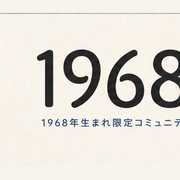
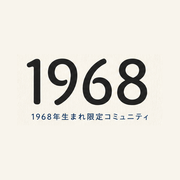
feat(brand): 新ロゴで全アイコン書き換え + ヒーロー画像 + 投稿バッジ展開
ユーザー支給の新しい logo.png（資料/logo.png）と更新された創設メンバー
バッジ SVG を一次ソースに、サイト全体のロゴ・アイコン・バッジを再生成。

ロゴ・アイコン
- public/logo/wordmark.png（392x192）と wordmark-compact.png（273x96）を新規生成
- public/logo/icon-{32,96,192,512}.png、favicon.ico、apple-touch-icon.png、icon.png を再生成
- public/badges/founding-member.svg を最新版に差し替え
- app/layout.tsx の SiteHeader をテキスト「1968」から画像ロゴに差し替え
  デスクトップは wordmark（h-12）、モバイルは wordmark-compact（h-9）で出し分け

トップヒーロー
- components/home/image-hero.tsx を新設、empty-threads.png を視覚アンカーに使う 2 カラム
- HomeGuest が PhotoCollageHero（絵文字タイル）から ImageHero に乗り換え

著者バッジの展開
- components/membership-badge.tsx に compact prop を追加、rank pill を非表示にできる
- lib/author-info.ts に isFoundingMember / isCurrentSupporter を追加
- スレッド詳細（ThreadOriginalCard / ReplyBubble）の著者名横に MembershipBadge compact を配置
- /timeline と /board/[slug] の各スレッド行にも同様に展開
- 創設メンバーは金色バッジ画像、応援団は紅色 pill で表示

DB マイグレーション
- 20260501013000、member_display ビューに is_ai_persona を含めるよう修正（regression 修正）

Changed region(s): [[0.1389, 0.25, 1.0, 0.7222], [0.0, 0.0556, 1.0, 0.0833]]

diff --git a/app/board/[slug]/[thread]/page.tsx b/app/board/[slug]/[thread]/page.tsx
@@ -20,6 +20,7 @@ import { MediaPicker } from "@/components/media-picker";
 import { OwnReplyBubble } from "@/components/own-reply-bubble";
 import { AdminModToolbar } from "@/components/admin-mod-toolbar";
 import { UserAvatar } from "@/components/user-avatar";
+import { MembershipBadge } from "@/components/membership-badge";
 import { fetchAuthorInfo } from "@/lib/author-info";
 import { fetchCategoryBySlug } from "@/lib/cached-categories";
 import type { MediaItem } from "@/lib/media";
@@ -136,6 +137,8 @@ export default async function ThreadDetailPage({ params, searchParams }: Props) 
   const author = authorMap.get(thread.user_id);
   const authorName = author?.nickname ?? "（匿名）";
   const authorIsAi = author?.isAi === true;
+  const authorIsFounding = author?.isFoundingMember === true;
+  const authorIsSupporter = author?.isCurrentSupporter === true;
   const authorAvatar = author?.avatarUrl ?? null;
 
   // 現ユーザーの「いいね」一覧、スレッド本文＋閲覧可能な返信分
@@ -192,6 +195,8 @@ export default async function ThreadDetailPage({ params, searchParams }: Props) 
           authorId={thread.user_id}
           authorName={authorName}
           authorIsAi={authorIsAi}
+          authorIsFounding={authorIsFounding}
+          authorIsSupporter={authorIsSupporter}
           authorAvatar={authorAvatar}
           title={thread.title}
           body={thread.body}
@@ -212,6 +217,8 @@ export default async function ThreadDetailPage({ params, searchParams }: Props) 
               const replyAuthor = authorMap.get(r.user_id);
               const name = replyAuthor?.nickname ?? "（匿名）";
               const replyIsAi = replyAuthor?.isAi === true;
+              const replyIsFounding = replyAuthor?.isFoundingMember === true;
+              const replyIsSupporter = replyAuthor?.isCurrentSupporter === true;
               const replyAvatar = replyAuthor?.avatarUrl ?? null;
               const mine = viewerId === r.user_id;
               const parentName = r.parent_reply_id
@@ -252,6 +259,8 @@ export default async function ThreadDetailPage({ params, searchParams }: Props) 
                     name={name}
                     authorId={r.user_id}
                     isAi={replyIsAi}
+                    isFounding={replyIsFounding}
+                    isSupporter={replyIsSupporter}
                     avatarUrl={replyAvatar}
                     mine={mine}
                     parentName={parentName}
@@ -355,6 +364,8 @@ function ThreadOriginalCard(props: {
   authorId: string;
   authorName: string;
   authorIsAi: boolean;
+  authorIsFounding: boolean;
+  authorIsSupporter: boolean;
   authorAvatar: string | null;
   title: string;
   body: string;
@@ -384,6 +395,12 @@ function ThreadOriginalCard(props: {
               {props.authorName}
             </Link>
             {props.authorIsAi && <AiBadge />}
+            <MembershipBadge
+              rank="member"
+              compact
+              isFoundingMember={props.authorIsFounding}
+              isCurrentSupporter={props.authorIsSupporter}
+            />
           </p>
           <p className="text-xs text-foreground/60">
             {new Date(props.createdAt).toLocaleString("ja-JP", {
@@ -447,6 +464,8 @@ function ReplyBubble(props: {
   name: string;
   authorId: string;
   isAi: boolean;
+  isFounding: boolean;
+  isSupporter: boolean;
   avatarUrl: string | null;
   mine: boolean;
   parentName: string | null;
@@ -485,6 +504,12 @@ function ReplyBubble(props: {
           <p className="text-xs text-foreground/70 mb-0.5 px-1 flex items-center gap-1">
             <span>{props.name}</span>
             {props.isAi && <AiBadge />}
+            <MembershipBadge
+              rank="member"
+              compact
+              isFoundingMember={props.isFounding}
+              isCurrentSupporter={props.isSupporter}
+            />
           </p>
         )}
         {props.parentName && (

diff --git a/components/home/image-hero.tsx b/components/home/image-hero.tsx
@@ -1,0 +1,57 @@
+// 1968 トップページの画像ヒーロー。
+// アイボリー水彩タッチのイラスト（ノート＋湯呑み＋小さな花束）を視覚アンカーにして、
+// 「同年代と落ち着いて語らえる場」というブランドの世界観を一目で伝える。
+//
+// レイアウト、
+//   - デスクトップ：画像左、テキスト右の 2 カラム
+//   - モバイル：画像が上、テキストが下のスタック
+
+import Image from "next/image";
+
+export function ImageHero({
+  title,
+  subtitle,
+  cta,
+}: {
+  title: React.ReactNode;
+  subtitle?: React.ReactNode;
+  cta?: React.ReactNode;
+}) {
+  return (
+    <section className="px-4 py-8 sm:py-14 max-w-6xl mx-auto">
+      <div className="grid md:grid-cols-2 gap-6 md:gap-12 items-center">
+        {/* 画像、モバイルでは順序 1（上）、デスクトップでは左 */}
+        <div className="order-1 md:order-1 relative">
+          <Image
+            src="/illustrations/empty-threads.png"
+            alt="開いたノートと湯呑み、ふたりの会話を待つ机"
+            width={800}
+            height={600}
+            priority
+            className="w-full h-auto rounded-2xl"
+          />
+        </div>
+
+        {/* テキスト + CTA、モバイルでは順序 2（下）、デスクトップでは右 */}
+        <div className="order-2 md:order-2">
+          <p className="text-xs tracking-widest text-accent font-bold mb-3">
+            1968 — SHOWA 43 ONLY
+          </p>
+          <h1 className="text-3xl sm:text-4xl md:text-5xl font-bold leading-tight">
+            {title}
+          </h1>
+          {subtitle && (
+            <div className="mt-4 text-base sm:text-lg text-foreground/80 leading-8">
+              {subtitle}
+            </div>
+          )}
+          {cta && (
+            <div className="mt-6 sm:mt-8 flex flex-col sm:flex-row gap-3 items-stretch sm:items-center">
+              {cta}
+            </div>
+          )}
+        </div>
+      </div>
+    </section>
+  );
+}

diff --git a/app/layout.tsx b/app/layout.tsx
@@ -7,6 +7,7 @@ import Link from "next/link";
 // 東京にすれば 30〜80ms に短縮できる、各ページで 5〜15 クエリ走るので体感が劇的に変わる。
 export const preferredRegion = ["hnd1"];
 import { createSupabaseServerClient } from "@/lib/supabase/server";
+import Image from "next/image";
 import { Suspense } from "react";
 import { Analytics } from "@/components/analytics";
 import { MembershipBadge } from "@/components/membership-badge";
@@ -245,15 +246,26 @@ function SiteHeader({
       <div className="mx-auto max-w-5xl px-4 py-4 flex items-center justify-between gap-3">
         <Link
           href="/"
-          className="flex flex-col leading-tight no-underline shrink-0"
-          aria-label="1968 トップへ"
+          className="flex items-center no-underline shrink-0"
+          aria-label="1968、1968年生まれ限定コミュニティ、トップへ"
         >
-          <span className="text-2xl font-bold tracking-wider text-primary">
-            1968
-          </span>
-          <span className="text-sm text-foreground/70 hidden sm:block">
-            1968年生まれ限定コミュニティ
-          </span>
+          {/* デスクトップではフルロゴ（1968 + サブタイトル）、モバイルではアイコンのみ */}
+          <Image
+            src="/logo/wordmark.png"
+            alt="1968 1968年生まれ限定コミュニティ"
+            width={221}
+            height={96}
+            priority
+            className="hidden sm:block h-12 w-auto"
+          />
+          <Image
+            src="/logo/wordmark-compact.png"
+            alt="1968"
+            width={159}
+            height={48}
+            priority
+            className="block sm:hidden h-9 w-auto"
+          />
         </Link>
         <nav className="flex items-center gap-3">
           {isAdmin && (

diff --git a/lib/author-info.ts b/lib/author-info.ts
@@ -1,12 +1,14 @@
 import type { SupabaseClient } from "@supabase/supabase-js";
 import { publicAvatarUrl } from "@/lib/avatar";
 
-// 投稿表示用の、ニックネーム＋会員ランク＋アバター URL をまとめて取得するヘルパー。
+// 投稿表示用の、ニックネーム＋会員ランク＋アバター URL ＋称号フラグをまとめて取得するヘルパー。
 
 export type AuthorInfo = {
   nickname: string | null;
   rank: "member" | "verified" | null;
   isAi: boolean;
+  isFoundingMember: boolean;
+  isCurrentSupporter: boolean;
   avatarUrl: string | null;
 };
 
@@ -25,7 +27,9 @@ export async function fetchAuthorInfo(
       .in("user_id", uniqueIds),
     supabase
       .from("member_display")
-      .select("user_id, membership_rank, is_ai_persona")
+      .select(
+        "user_id, membership_rank, is_ai_persona, is_founding_member, is_current_supporter",
+      )
       .in("user_id", uniqueIds),
   ]);
 
@@ -33,6 +37,8 @@ export async function fetchAuthorInfo(
     nickname: null,
     rank: null,
     isAi: false,
+    isFoundingMember: false,
+    isCurrentSupporter: false,
     avatarUrl: null,
   });
   for (const id of uniqueIds) {
@@ -48,6 +54,8 @@ export async function fetchAuthorInfo(
     const current = map.get(r.user_id as string) ?? init();
     current.rank = r.membership_rank as "member" | "verified";
     current.isAi = r.is_ai_persona === true;
+    current.isFoundingMember = r.is_founding_member === true;
+    current.isCurrentSupporter = r.is_current_supporter === true;
     map.set(r.user_id as string, current);
   }
 

diff --git a/app/timeline/page.tsx b/app/timeline/page.tsx
@@ -3,6 +3,7 @@ import type { Metadata } from "next";
 import { createSupabaseServerClient } from "@/lib/supabase/server";
 import { fetchAuthorInfo } from "@/lib/author-info";
 import { EmptyState } from "@/components/empty-state";
+import { MembershipBadge } from "@/components/membership-badge";
 import { ThreadThumbnail } from "@/components/thread-thumbnail";
 import type { Tier } from "@/lib/auth/permissions";
 import type { MediaItem } from "@/lib/media";
@@ -141,8 +142,15 @@ export default async function TimelinePage({ searchParams }: Props) {
                     <p className="mt-0.5 text-sm text-foreground/70 line-clamp-1 leading-6">
                       {preview(t.body)}
                     </p>
-                    <div className="mt-1.5 flex items-center gap-2 text-xs text-foreground/60 flex-wrap">
+                    <div className="mt-1.5 flex items-center gap-1.5 text-xs text-foreground/60 flex-wrap">
                       <span className="truncate max-w-[8em]">{nickname}</span>
+                      <MembershipBadge
+                        rank="member"
+                        compact
+                        isAi={author?.isAi}
+                        isFoundingMember={author?.isFoundingMember}
+                        isCurrentSupporter={author?.isCurrentSupporter}
+                      />
                       <span className="ml-auto inline-flex items-center gap-2.5">
                         <span className="inline-flex items-center gap-0.5">
                           <i className="ri-message-2-line" aria-hidden />

diff --git a/app/board/[slug]/page.tsx b/app/board/[slug]/page.tsx
@@ -6,6 +6,7 @@ import { getCurrentRank } from "@/lib/auth/current-rank";
 import { canView, canPost, type Tier, type ViewLevel, type PostLevel } from "@/lib/auth/permissions";
 import { fetchAuthorInfo } from "@/lib/author-info";
 import { EmptyState } from "@/components/empty-state";
+import { MembershipBadge } from "@/components/membership-badge";
 import { UserAvatar } from "@/components/user-avatar";
 import { ThreadThumbnail } from "@/components/thread-thumbnail";
 import { fetchCategoryBySlug } from "@/lib/cached-categories";
@@ -190,6 +191,13 @@ export default async function CategoryPage({ params, searchParams }: Props) {
                         />
                         <span className="truncate max-w-[6em]">{nickname}</span>
                       </span>
+                      <MembershipBadge
+                        rank="member"
+                        compact
+                        isAi={author?.isAi}
+                        isFoundingMember={author?.isFoundingMember}
+                        isCurrentSupporter={author?.isCurrentSupporter}
+                      />
                       <span>・</span>
                       <span>{formatRelative(t.created_at)}</span>
                       <span className="ml-auto inline-flex items-center gap-2.5">

diff --git a/components/membership-badge.tsx b/components/membership-badge.tsx
@@ -20,6 +20,7 @@ export function MembershipBadge({
   isCurrentSupporter,
   isAi,
   badgeSize = "sm",
+  compact = false,
 }: {
   rank: Rank;
   isFoundingMember?: boolean;
@@ -27,6 +28,9 @@ export function MembershipBadge({
   isAi?: boolean;
   /** 創設メンバーバッジ画像のサイズ。sm=20px、md=28px、lg=64px */
   badgeSize?: "sm" | "md" | "lg";
+  /** true なら「1968認証済」pill を非表示にし、特別バッジ（創設・応援団・運営AI）だけ表示。
+   * 投稿バブル内など、rank はカテゴリ権限で自明な場所で使う */
+  compact?: boolean;
 }) {
   if (isAi) {
     return (
@@ -42,13 +46,12 @@ export function MembershipBadge({
 
   return (
     <span className="inline-flex items-center gap-1.5 flex-wrap">
-      {rank === "verified" && (
+      {!compact && rank === "verified" && (
         <Pill bg="#f8f4ec" fg="#1e3a5f" border="#1e3a5f">
           1968認証済
         </Pill>
       )}
       {isFoundingMember && (
-        // 画像バッジ、デザイナー作の創設メンバーバッジを直接使う
         <Image
           src="/badges/founding-member.svg"
           alt="創設メンバー"

diff --git a/components/home/home-guest.tsx b/components/home/home-guest.tsx
@@ -1,14 +1,15 @@
 import Link from "next/link";
-import { PhotoCollageHero } from "./photo-collage-hero";
+import { ImageHero } from "./image-hero";
 import { RecentThreadCards } from "./recent-thread-cards";
 
-// 未ログインのランディング、写真コラージュ風＋チャット風カードで「同年代の集い」感を出す。
+// 未ログインのランディング、ノート + 湯呑みのイラストヒーローで
+// 「同年代と落ち着いて語らえる場」のブランド世界観を一目で伝える。
 // 課金訴求は控えめ、主 CTA は「会員登録」と「掲示板をのぞく」。
 
 export async function HomeGuest() {
   return (
     <div className="pb-12">
-      <PhotoCollageHero
+      <ImageHero
         title={
           <>
             昭和43年生まれだけの、
